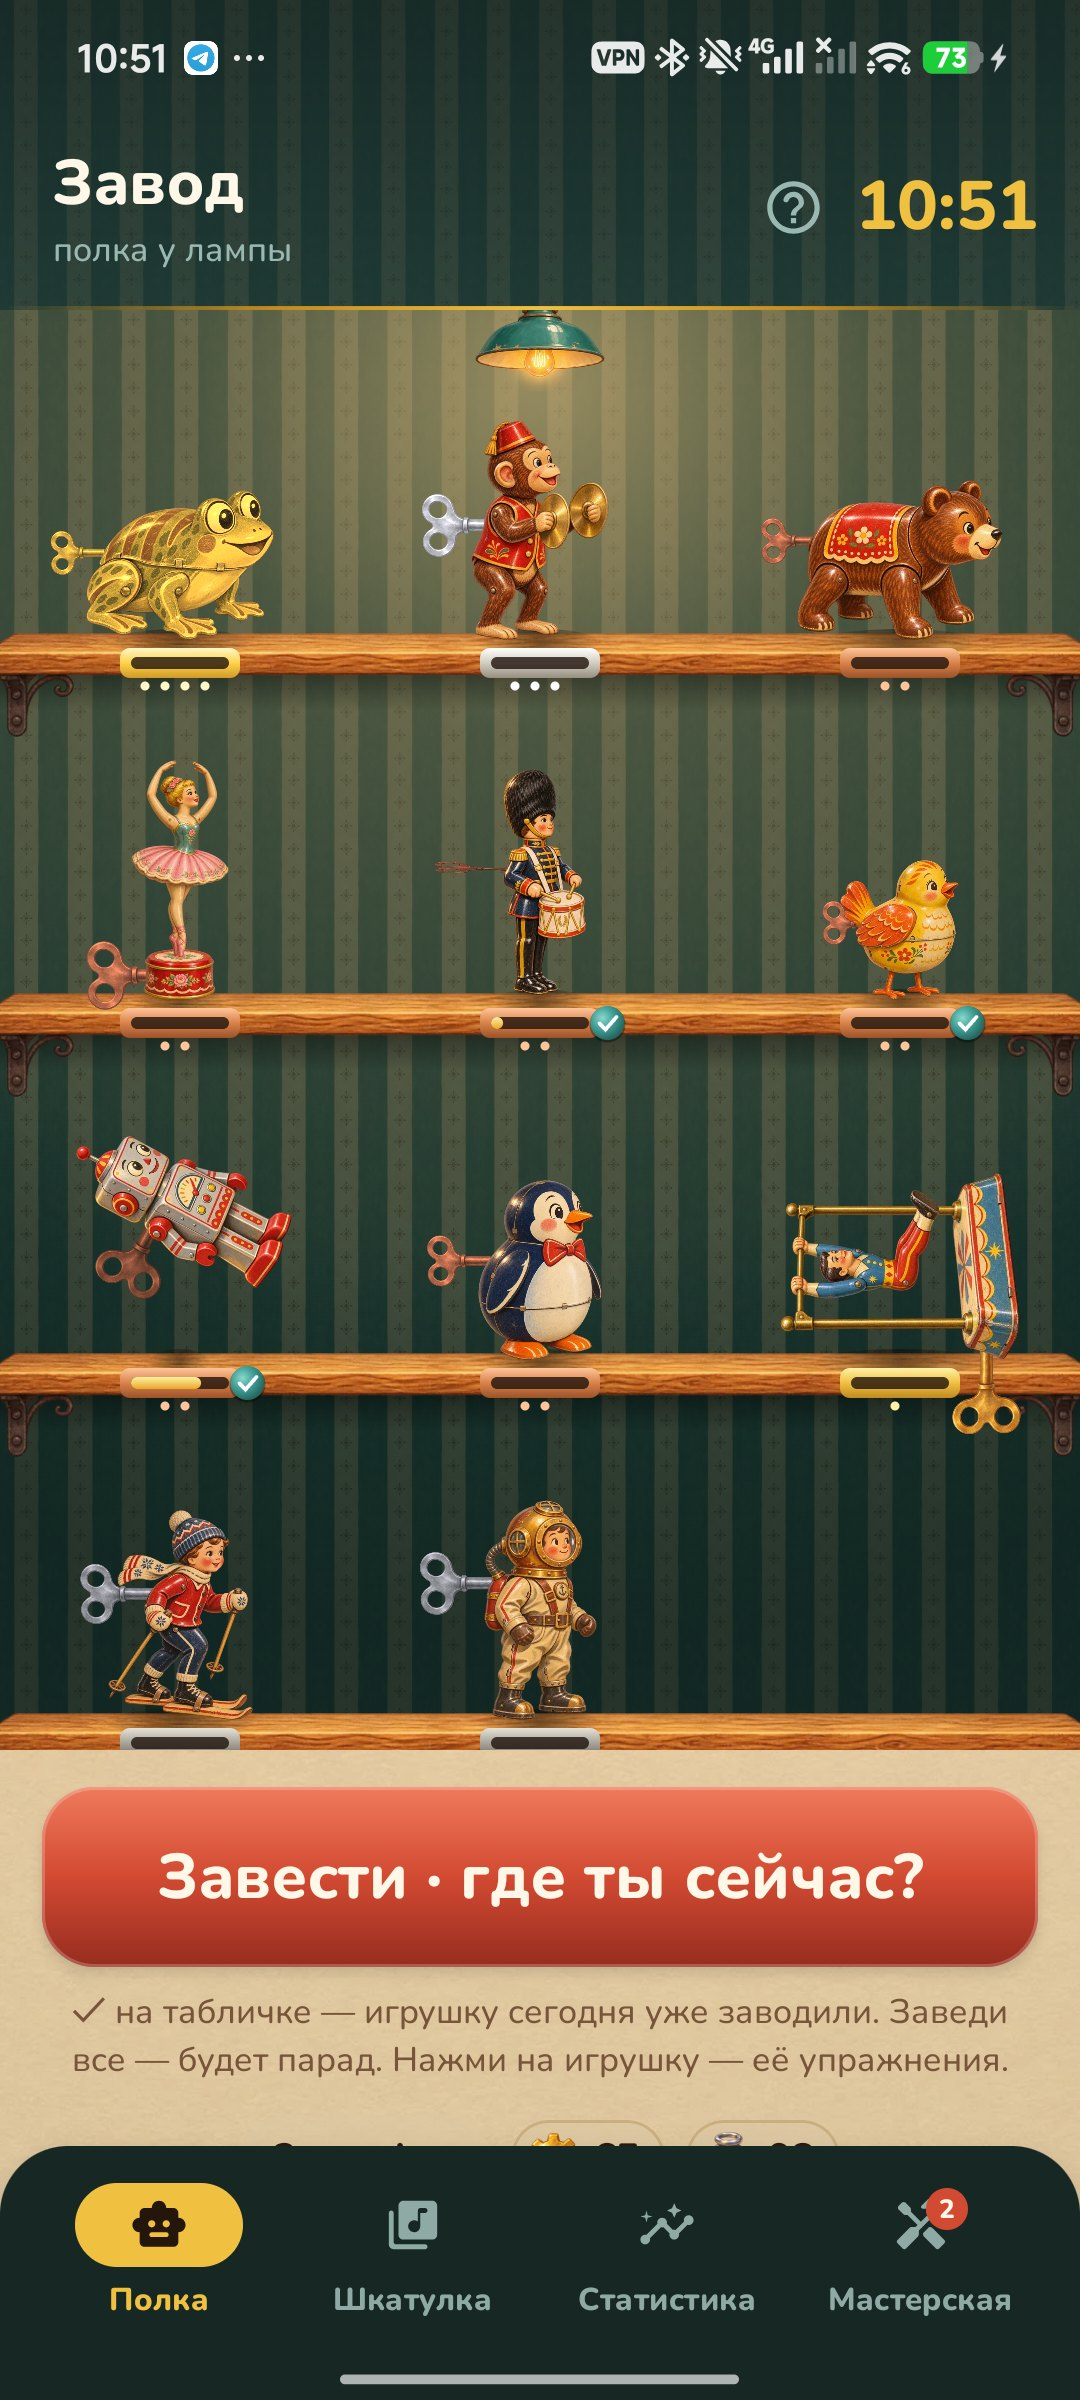
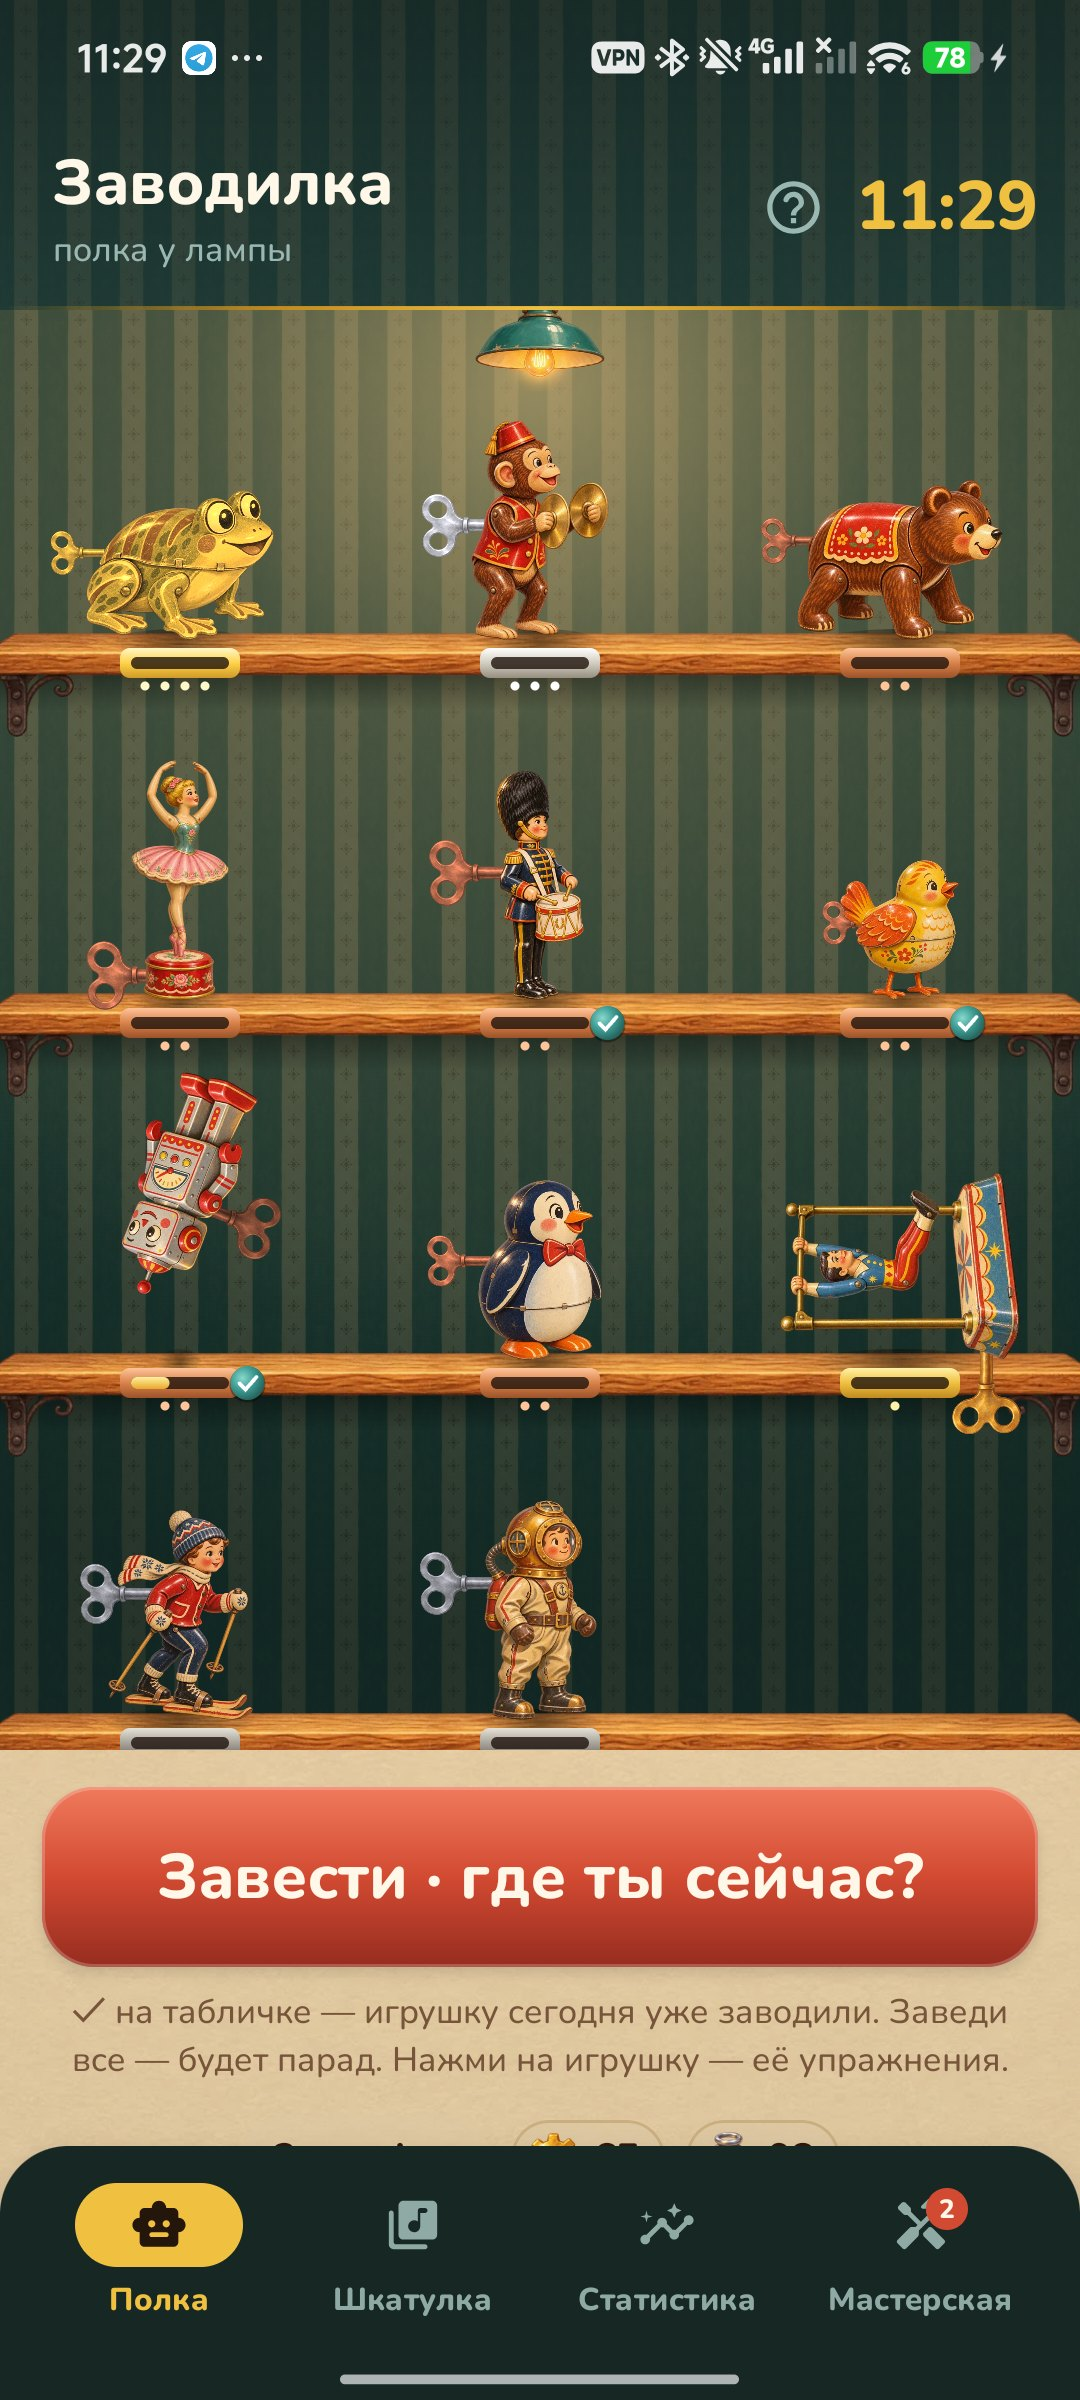
Russian name: Заводилка instead of Завод

diff --git a/app/src/main/java/app/windup/ui/settings/SettingsSheet.kt b/app/src/main/java/app/windup/ui/settings/SettingsSheet.kt
@@ -72,7 +72,7 @@ fun SettingsSheet(h: Home, onClose: () -> Unit) {
         }
         CommunityLinks(w)
         Panel {
-            Text(w.t("О «Заводе»", "About Windup"), style = T.Title)
+            Text(w.t("О «Заводилке»", "About Windup"), style = T.Title)
             Text(w.t("Нас приучили, что спорт — это час пару раз в неделю. Тело любит иначе: понемногу, весь день. Игрушки на полке — напоминание об этом.",
                 "We were taught that exercise is an hour a couple of times a week. The body prefers a little, all day long. The toys on the shelf are a reminder of that."), style = T.Small)
             Text(w.t("Версия ${BuildConfig.VERSION_NAME} · шрифт Nunito (OFL) · исходники на GitHub", "Version ${BuildConfig.VERSION_NAME} · Nunito font (OFL) · source on GitHub"),

diff --git a/app/src/main/java/app/windup/ui/shelf/ShelfScreen.kt b/app/src/main/java/app/windup/ui/shelf/ShelfScreen.kt
@@ -72,7 +72,7 @@ fun ShelfScreen(h: Home, onToy: (Toy) -> Unit, onWind: () -> Unit) {
     val gs = rememberGuide(h, guide.key)
     Column(Modifier.fillMaxSize()) {
         val fair = Engine.fairOpen(h.nowMs.date(h.zone))
-        TopBar(w.t("Завод", "Windup"), if (fair) w.t("ярмарка открыта — загляни в мастерскую", "the fair is open — see the workshop") else w.t("полка у лампы", "the shelf by the lamp")) {
+        TopBar(w.t("Заводилка", "Windup"), if (fair) w.t("ярмарка открыта — загляни в мастерскую", "the fair is open — see the workshop") else w.t("полка у лампы", "the shelf by the lamp")) {
             HelpButton(gs, w.t("Подсказка", "Help"))
             Text(w.clock(h.nowMs.minuteOfDay(h.zone)), style = T.Clock)
         }

diff --git a/app/src/main/java/app/windup/ui/onboarding/Onboarding.kt b/app/src/main/java/app/windup/ui/onboarding/Onboarding.kt
@@ -47,7 +47,7 @@ fun Onboarding(w: Words, settings: Settings) {
     val ask = rememberLauncherForActivityResult(ActivityResultContracts.RequestPermission()) { }
 
     Column(Modifier.fillMaxSize().screen()) {
-        TopBar(w.t("Завод", "Windup"), w.t("${page + 1} из 3", "${page + 1} of 3"))
+        TopBar(w.t("Заводилка", "Windup"), w.t("${page + 1} из 3", "${page + 1} of 3"))
         Column(Modifier.weight(1f).verticalScroll(rememberScrollState())) {
             if (page < 2) Stage(Scenes.SW, Scenes.SH) { b, dt, _ ->
                 Scenes.shelf(b, 3)

diff --git a/README.ru.md b/README.ru.md
@@ -1,12 +1,12 @@
 <div align="center">
 
-<img src="docs/logo.png" width="96" alt="Завод" />
+<img src="docs/logo.png" width="96" alt="Заводилка" />
 
-# Завод
+# Заводилка
 
 ### Понемногу, но весь день — как заводные игрушки.
 
-*Нас приучили, что спорт — это час пару раз в неделю. Телу естественнее иначе: присесть, пока закипает чайник, постоять на одной ноге, пока чистишь зубы, подняться по лестнице. «Завод» — полка из девяти нарисованных жестяных игрушек; завода хватает на два часа, и крутить ключ нужно часто — по минуте-три. Бесплатно, без рекламы, без аккаунта и без интернета.*
+*Нас приучили, что спорт — это час пару раз в неделю. Телу естественнее иначе: присесть, пока закипает чайник, постоять на одной ноге, пока чистишь зубы, подняться по лестнице. «Заводилка» — полка из девяти нарисованных жестяных игрушек; завода хватает на два часа, и крутить ключ нужно часто — по минуте-три. Бесплатно, без рекламы, без аккаунта и без интернета.*
 
 [![Скачать](https://img.shields.io/github/v/release/bigdevwhale/windup?color=D24A32&label=скачать&logo=android)](https://github.com/bigdevwhale/windup/releases/latest)
 

diff --git a/CHANGELOG.md b/CHANGELOG.md
@@ -26,7 +26,7 @@ then close it like any HTML comment. The release notes carry it, and the chat bo
 - Back from a movement opened from a toy's list (or from "Where are you?") returns to that list instead of the shelf.
 
 <!-- tg
-Завод 1.1: новые нарисованные игрушки и сцены вместо пикселей, тёмная тема и новая иконка.
+Заводилка 1.1: новые нарисованные игрушки и сцены вместо пикселей, тёмная тема и новая иконка.
 Новая вкладка «Статистика»: серия дней, недели, часы, игрушки.
 На полке ✓ у игрушек, заведённых сегодня; в карточке — когда заводили в последний раз.
 Исправлено: «Назад» из упражнения возвращает к списку упражнений.
